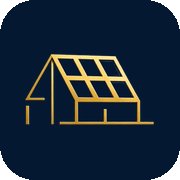
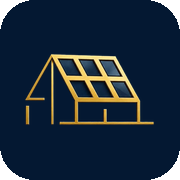
Os vidros dos painéis voltam, e a imagem de partilha deixa de ter a mancha
Ao achatar o azul de dentro do logótipo achatei também os **vidros dos painéis
solares**, que na arte não são o azul do fundo — são cinza-azulado com reflexos,
e o do canto tem um brilho forte. A casa ficou com seis buracos da cor da barra.
Regressão minha, apanhada pelo cliente.

A separação teve de ser geométrica e não por cor: a parede da casa mede 27,9 de
luminância e o painel mais escuro 29,2 — perto demais para um limiar, e a
variância também não os distingue (8,8 contra 10,1). Mas os seis painéis vivem
todos entre y 254 e 461 e a parede começa em y 488, sem sobreposição. A faixa do
telhado fica de fora do achatamento; o resto continua a fundir-se com a barra.

**A imagem de partilha tinha o mesmo defeito**, e por engano meu: fi-la com
degradé, e a parede da casa aparecia como um rectângulo escuro no meio. Passa a
chapada, como a navbar.

Duas coisas a mais na partilha, já que lá estava:

- **A imagem passa a `og.jpg?v=2`.** O WhatsApp e o Facebook guardam-na em cache
  pelo endereço, durante semanas. Sem mudar o endereço, quem partilhasse o link
  continuaria a ver o logótipo amarelo antigo.
- **`og:image:width/height/type` e `og:site_name`.** Sem as medidas, a
  pré-visualização só aparece depois de o robô descarregar a imagem, e às vezes
  falha à primeira partilha.

diff --git a/index.html b/index.html
@@ -14,9 +14,13 @@
   <!-- ABSOLUTO, e não «assets/img/og.jpg»: o Facebook, o WhatsApp e o LinkedIn
        não resolvem caminhos relativos no og:image — quem partilhasse o link
        ficava com um cartão sem imagem. -->
-  <meta property="og:image" content="https://rafmatos.pt/assets/img/og.jpg" />
+  <meta property="og:image" content="https://rafmatos.pt/assets/img/og.jpg?v=2" />
   <meta property="og:image:alt" content="Raf Matos — remodelações interiores e exteriores em Vila Nova de Gaia" />
+  <meta property="og:image:width" content="1200" />
+  <meta property="og:image:height" content="630" />
+  <meta property="og:image:type" content="image/jpeg" />
   <meta property="og:locale" content="pt_PT" />
+  <meta property="og:site_name" content="Raf Matos" />
   <meta name="twitter:card" content="summary_large_image" />
   <link rel="canonical" href="https://rafmatos.pt/" />
   <meta property="og:url" content="https://rafmatos.pt/" />
